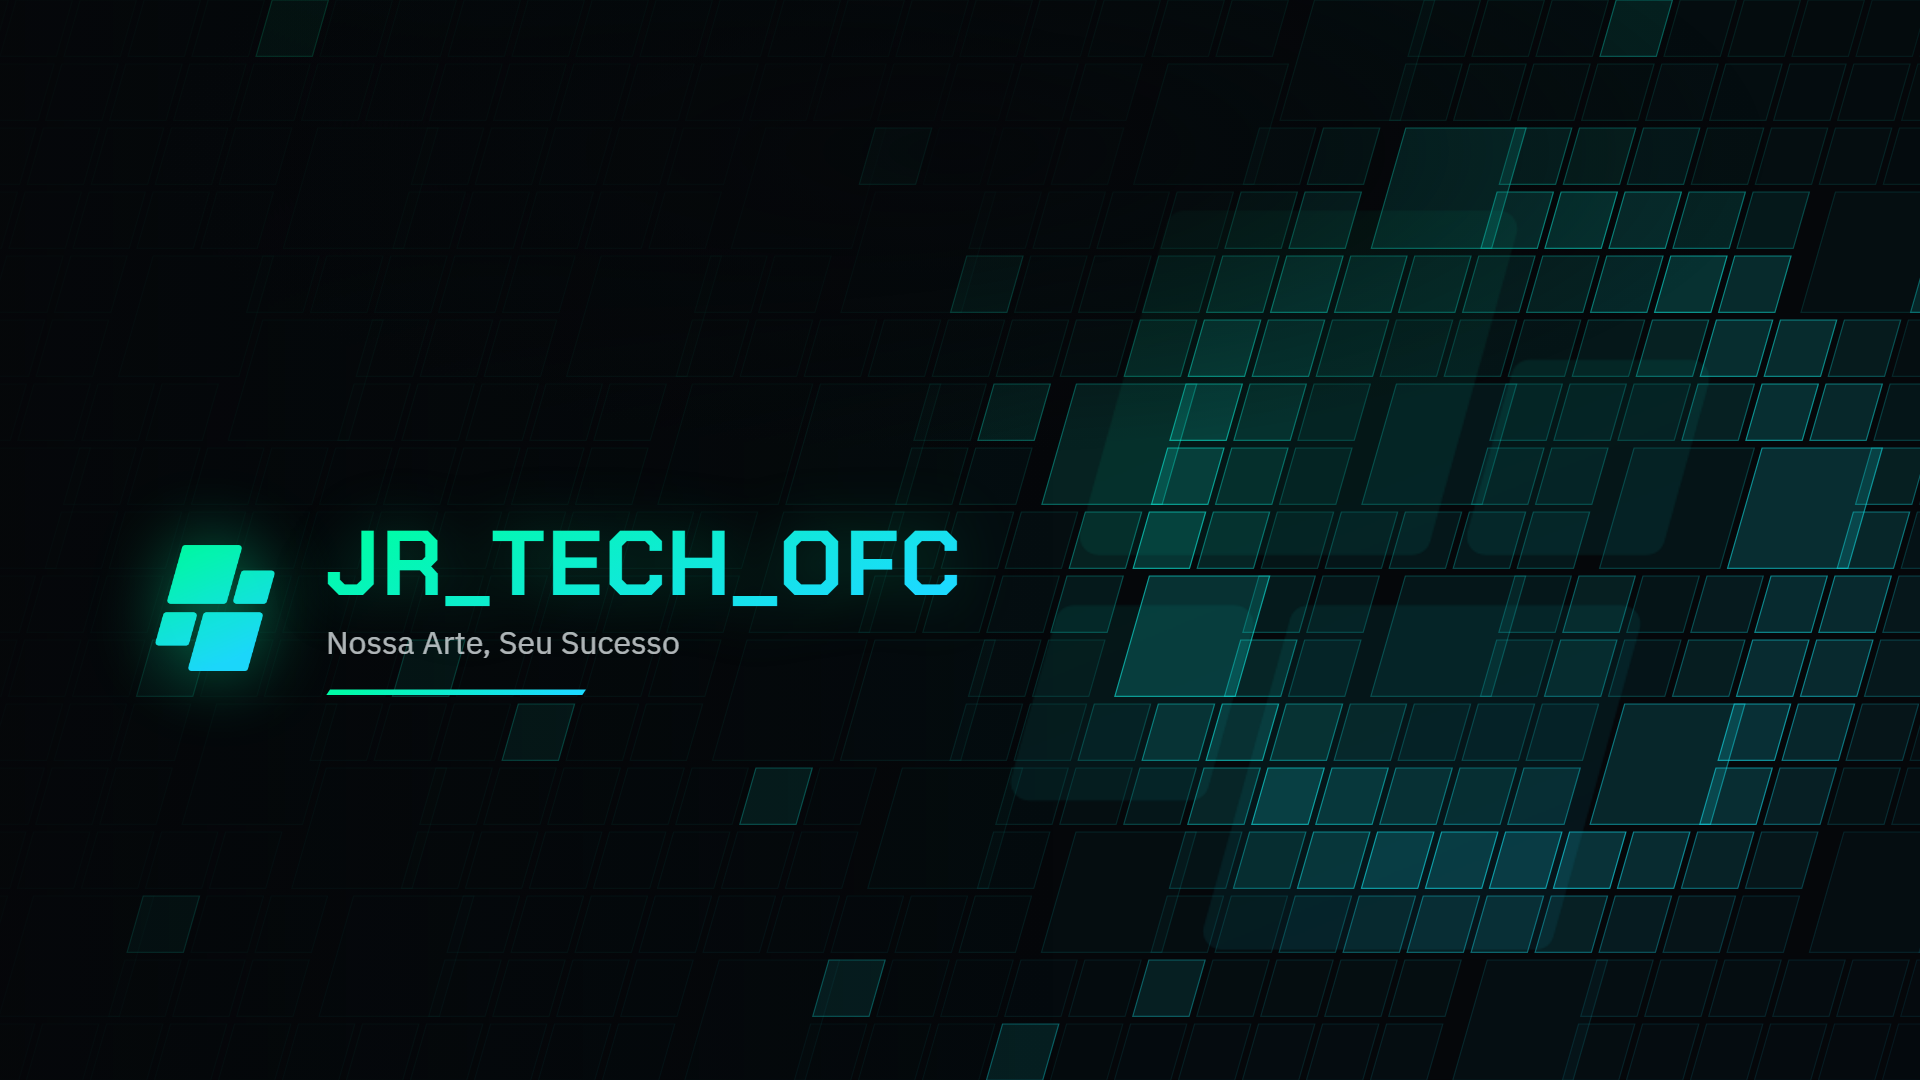
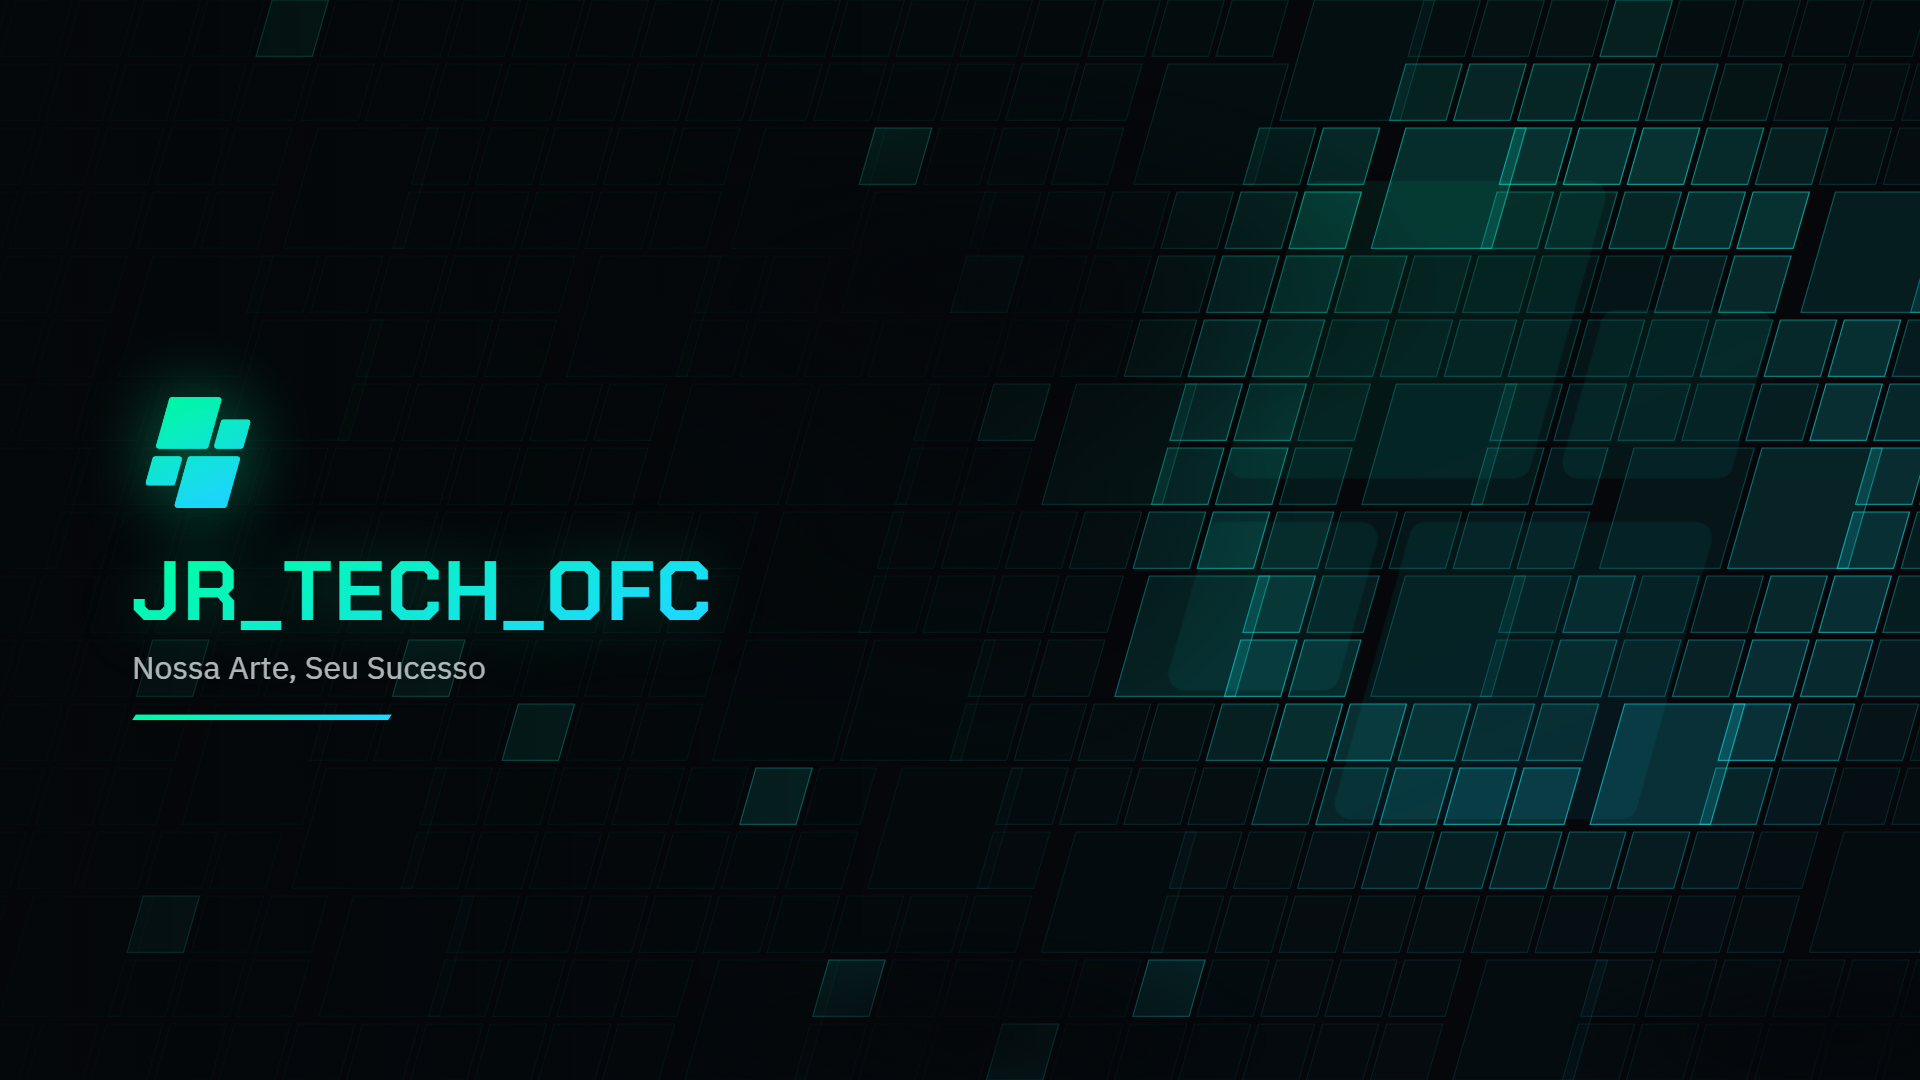
Tela de bloqueio: marca empilhada à esquerda, fora das áreas do Windows
Posições medidas na tela real: hora/data no centro superior, player de
mídia embaixo no centro, ícones embaixo à direita e, na tela de senha,
a coluna central com foto, nome e campo de senha.

diff --git a/lockscreen/lockscreen.html b/lockscreen/lockscreen.html
@@ -5,8 +5,12 @@
   <meta charset="UTF-8">
   <title>JR_TECH_OFC Tela de Bloqueio</title>
   <!-- Gerador da imagem estática da tela de bloqueio (1920x1080).
-       O Windows 11 desenha hora e data no centro superior e ícones no canto
-       inferior direito; essas áreas ficam livres. -->
+       Áreas do Windows 11 medidas na tela real (ficam livres/escuras):
+       - bloqueio: hora/data no centro (y 18-34%), player de mídia embaixo
+         no centro, rede/bateria embaixo à direita;
+       - senha (mesma imagem desfocada): foto, nome e senha numa coluna
+         central (x 40-60%, y 25-62%), ícones embaixo à direita.
+       A marca fica empilhada à esquerda, terminando antes de x = 40%. -->
   <link rel="stylesheet" href="../css/tokens.css">
   <style>
     * { margin: 0; padding: 0; box-sizing: border-box; }
@@ -14,36 +18,41 @@
     canvas { position: absolute; inset: 0; }
     .logo-big {
       position: absolute;
-      right: 120px;
+      right: 70px;
       top: 50%;
-      height: 880px;
-      margin-top: -400px;
+      height: 760px;
+      margin-top: -420px;
       opacity: 0.07;
     }
     .shade {
       position: absolute;
       inset: 0;
       background:
-        radial-gradient(ellipse 60% 40% at 50% 14%, rgba(5, 7, 10, 0.85), transparent 70%),
-        linear-gradient(90deg, rgba(5, 7, 10, 0.75) 0%, transparent 55%);
+        radial-gradient(ellipse 34% 26% at 50% 26%, rgba(5, 7, 10, 0.9), transparent 75%),
+        radial-gradient(ellipse 22% 34% at 50% 44%, rgba(5, 7, 10, 0.6), transparent 80%),
+        radial-gradient(ellipse 20% 12% at 50% 96%, rgba(5, 7, 10, 0.9), transparent 80%),
+        radial-gradient(ellipse 18% 10% at 96% 96%, rgba(5, 7, 10, 0.85), transparent 80%),
+        linear-gradient(90deg, rgba(5, 7, 10, 0.75) 0%, transparent 45%);
     }
     .lockup {
       position: absolute;
-      left: 140px;
-      top: 520px;
+      left: 132px;
+      top: 50%;
+      transform: translateY(-46%);
       display: flex;
-      align-items: center;
-      gap: 36px;
+      flex-direction: column;
+      align-items: flex-start;
+      gap: 34px;
     }
     .lockup img {
-      width: 150px;
-      height: 150px;
+      width: 132px;
+      height: 132px;
       filter: drop-shadow(0 0 36px color-mix(in srgb, var(--brand-1) 45%, transparent));
     }
     .name {
       font-family: var(--font-display);
       font-weight: 700;
-      font-size: 92px;
+      font-size: 84px;
       line-height: 0.95;
       letter-spacing: 0.02em;
       background: var(--brand-grad);
@@ -91,7 +100,7 @@
     const rand = () => (seed = (seed * 1664525 + 1013904223) >>> 0) / 4294967296;
     const gap = T * 0.12, cols = Math.ceil((W + H * TAN) / T) + 2, rows = Math.ceil(H / T) + 1;
     const used = new Uint8Array(cols * rows);
-    const focus = { x: 1500, y: 540 };
+    const focus = { x: 1540, y: 470 };
 
     function tile(c, r, span) {
       const x = c * T - r * T * TAN - T, y = r * T, w = span * T - gap, h = span * T - gap, k = h * TAN;
